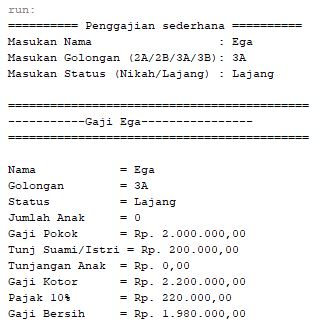
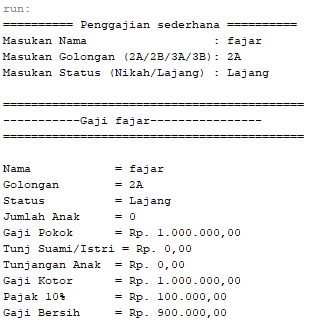
fixing bug

Changed region(s): [[0.0, 0.4954, 0.7788, 0.9907], [0.0, 0.0, 0.9346, 0.2477], [0.0, 0.3096, 0.9657, 0.4334]]

diff --git a/src/penggajian/Penggajian.java b/src/penggajian/Penggajian.java
@@ -71,8 +71,11 @@ public class Penggajian {
         System.out.println("Status          = " + status);
         System.out.println("Jumlah Anak     = " + anak);
         System.out.println("Gaji Pokok      = " + kursIndonesia.format(gpokok));
-
-        tunjistri = 10 * gpokok / 100;
+        
+        if (status.equals("Nikah")) {
+            tunjistri = 10 * gpokok / 100;
+        }
+        
         System.out.println("Tunj Suami/Istri = " + kursIndonesia.format(tunjistri));
 
         if (anak == 1) {
